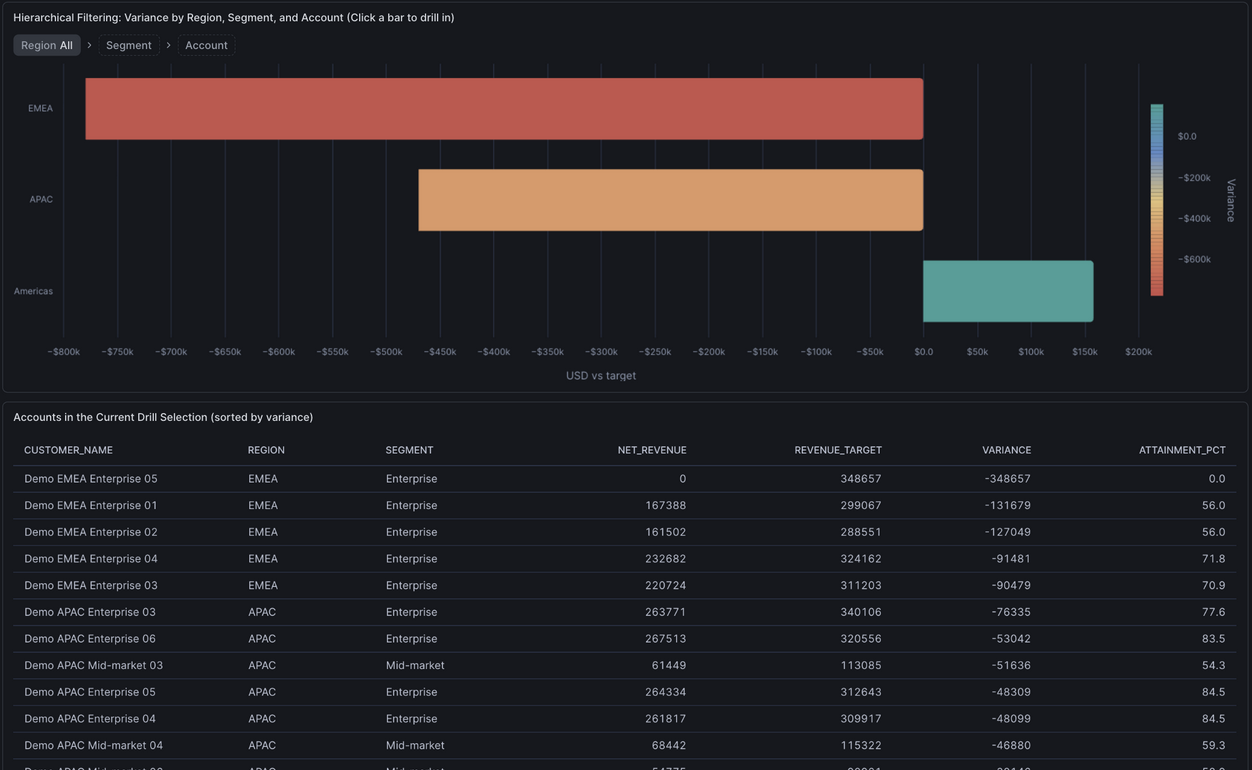
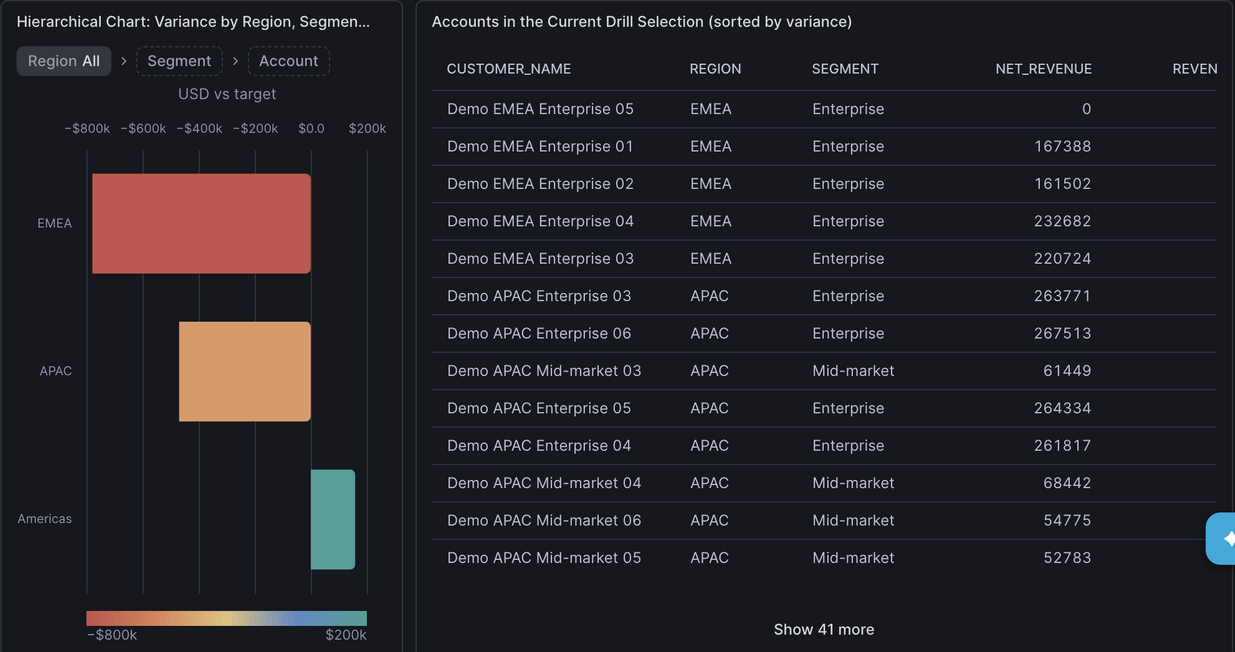
Sync Dashboards 2.0 guide with the four-tab Revenue Pulse example
Describe the Overview, Hierarchical Chart, Hierarchical Table, and Data Source tabs, add the hierarchy table step, mention revenue_pulse_extended.dash, and recapture screenshots from the current dashboard.

diff --git a/quickstart/getting-started-with-snowflake-dashboards-2-0/getting-started-with-snowflake-dashboards-2-0.md b/quickstart/getting-started-with-snowflake-dashboards-2-0/getting-started-with-snowflake-dashboards-2-0.md
@@ -44,9 +44,9 @@ A morning revenue check fits that last description, so this guide uses a dashboa
 - How to ask follow-up questions about a dashboard in CoWork, and keep recorded drivers separate from hypotheses
 
 ### What You'll Build
-You'll build Revenue Pulse, a three-tab revenue dashboard that takes you from the Q3 2026 headline numbers down to the regions, segments, and accounts behind the $1.09M gap. It combines KPI sparklines, a monthly trend, regional bars, a heatmap, and a variance waterfall, plus a driver donut and an account attainment bubble chart. The core charts sit on an **Overview** tab, a drillable chart and its account table on a **Hierarchical Chart** tab, and data lineage on a **Data Source** tab. Brush the trend or click a region bar, and the related charts would filter to match.
+You'll build Revenue Pulse, a four-tab revenue dashboard that takes you from the Q3 2026 headline numbers down to the regions, segments, and accounts behind the $1.09M gap. It combines KPI sparklines, a monthly trend, regional bars, a heatmap, and a variance waterfall, plus a driver donut and an account attainment bubble chart. The core charts sit on an **Overview** tab. A drillable bar chart with its account table sits on a **Hierarchical Chart** tab, and an expandable region-segment-customer table on a **Hierarchical Table** tab. The **Data Source** tab holds the data lineage and sample questions for CoWork. Brush the trend or click a region bar, and the related charts filter to match.
 
-![Overview tab of the completed Revenue Pulse dashboard, from summary cards through the driver donut and account bubble charts, with Hierarchical Chart and Data Source tabs alongside](assets/dashboard-complete.png)
+![Overview tab of the completed Revenue Pulse dashboard, from the header and summary cards through the driver donut and account bubble charts, with Hierarchical Chart, Hierarchical Table, and Data Source tabs alongside](assets/dashboard-complete.png)
 
 The architecture below shows how the dashboard and Revenue Advisor use the shared semantic view, and how viewers explore the published artifact in CoWork.
 
@@ -66,7 +66,7 @@ Everything in this guide runs in Snowsight. You don't need Python, a CLI, or a l
 
 Run the supplied setup scripts, then send one authoring prompt at a time in the same Snowsight CoCo conversation. Review each change and complete its **Check** before continuing.
 
-The companion's `dashboards/revenue_pulse.dash` is the completed example used for this guide's screenshots and expected figures. Create your dashboard as `dashboards/revenue_pulse_draft.dash` so you can compare the two without overwriting the example. Generated layouts and wording can differ. If you prefer to explore the completed example first, open it and jump to **Explore with Filters**.
+The companion's `dashboards/revenue_pulse.dash` is the completed example used for this guide's screenshots and expected figures. `dashboards/revenue_pulse_extended.dash` is a longer variant of the same dashboard: it moves the trend and detail charts to a **Chart Actions** tab and adds a how-to tile beside each chart. Create your dashboard as `dashboards/revenue_pulse_draft.dash` so you can compare the two without overwriting the example. Generated layouts and wording can differ. If you prefer to explore the completed example first, open it and jump to **Explore with Filters**.
 
 The `/dashboard` skill was confirmed to load in Snowsight during a read-only check. The incremental authoring prompts below are suggested instructions, not a transcript of a completed end-to-end generation run. Validate the result in your account; a successful file check alone does not establish that its SQL or interactions are correct. Advanced chart actions depend on your account's enabled features.
 
@@ -495,9 +495,9 @@ Use supported native scorecards and validate the file.
 
 **Check:** Default Q3 revenue remains about $6.9M, with a 0.8% year-over-year increase. The sparklines end in September 2026 and contain 12 months, while the main cards still describe the quarter. Inspect the prior-year dates if the comparisons look wrong.
 
-The completed example below shows the four KPI sparklines and the dashboard header. It also includes the Chart Actions instructions added later in the walkthrough; your dashboard does not need to match its layout exactly.
+The completed example below shows the four KPI sparklines under the dashboard header, with the trend below them. Your dashboard does not need to match its layout exactly.
 
-![Completed Revenue Pulse example with four KPI sparklines and a Chart Actions tile](assets/dashboard-overview.png)
+![Completed Revenue Pulse example with the header, four KPI sparklines, and the start of the monthly trend](assets/dashboard-overview.png)
 
 ### 10. Add Detail Charts
 
@@ -627,55 +627,78 @@ The region bar changes its detail level through the Region and Segment dropdowns
 Add a native hierarchy named geo with three levels: Region, then
 Segment within region, then Account (key CUSTOMER_ID, shown as
 CUSTOMER_NAME). Add a horizontal bar chart titled Hierarchical
-Filtering: Variance by Region, Segment, and Account, on its own
+Chart: Variance by Region, Segment, and Account, on its own
 scope under the main scope, so the header filters and other chart
 actions still apply. Clicking a bar should drill one level down,
 and its level trail should drill back up. Hierarchy datasources
 can't use the semantic view, so join REVENUE_MONTHLY, CUSTOMERS,
 and PRODUCTS and reuse the semantic view's net revenue and target
-formulas. Put it on a new tab named Hierarchical Chart. Right
-under the chart, add a table in the same scope that lists the
+formulas. Put it on a new tab named Hierarchical Chart. Beside
+the chart, add a table in the same scope that lists the
 accounts inside whatever bar the viewer drilled into: bind it to
 the geo hierarchy with hierarchy_rows but not hierarchy_key, so it
 always groups by account. Keep the existing chart actions and
 validate the file.
 ```
 
-**Expected output:** A `hierarchies` entry with three levels, two datasources bound to it, a drillable bar chart with drill-down and drill-up actions, and an account table below it in the same scope. The existing chart actions are unchanged.
+**Expected output:** A `hierarchies` entry with three levels, two datasources bound to it, a drillable bar chart with drill-down and drill-up actions, and an account table beside it in the same scope. The existing chart actions are unchanged.
 
 The table's query uses `{{ hierarchy_rows('geo') }}` to keep only the rows under the drilled member and groups by account itself. Because it shares the chart's scope, every drill click re-runs it.
 
-**Check:** Click EMEA, then Enterprise. The bars should go from three regions to EMEA's segments (Enterprise about −$778.7K) to six EMEA Enterprise accounts. The table below should follow: all accounts, then EMEA's 18, then the same six. Use the level trail to go back to **Region All**. Then set Region = APAC in the header: the chart should drill from APAC only.
+**Check:** Click EMEA, then Enterprise. The bars should go from three regions to EMEA's segments (Enterprise about −$778.7K) to six EMEA Enterprise accounts. The table beside it should follow: all accounts, then EMEA's 18, then the same six. Use the level trail to go back to **Region All**. Then set Region = APAC in the header: the chart should drill from APAC only.
 
-![Hierarchical Chart chart at the Region level: EMEA and APAC bars below target, Americas above, with the level trail reading Region All, and the account table below listing all regions' accounts](assets/hierarchy-drill-region.png)
+![Hierarchical Chart chart at the Region level: EMEA and APAC bars below target, Americas above, with the level trail reading Region All, and the account table beside it listing all regions' accounts](assets/hierarchy-drill-region.png)
 
-![After clicking EMEA: Enterprise is about -$779K below target while SMB and Mid-market are near zero, and the table below now lists only EMEA accounts](assets/hierarchy-drill-segment.png)
+![After clicking EMEA: Enterprise is about -$779K below target while SMB and Mid-market are near zero, and the table beside it now lists only EMEA accounts](assets/hierarchy-drill-segment.png)
 
-![After clicking Enterprise: six EMEA Enterprise accounts, led by Demo EMEA Enterprise 05 at about -$349K, with the table below listing the same six accounts](assets/hierarchy-drill-account.png)
+![After clicking Enterprise: six EMEA Enterprise accounts, led by Demo EMEA Enterprise 05 at about -$349K, with the table beside it listing the same six accounts](assets/hierarchy-drill-account.png)
 
 A click on a bar can briefly show one long multicolored bar while the next level loads. This is the preview renderer redrawing the previous level; the chart settles when the data arrives.
 
-### 12. Explain the Controls
+#### Expand a Hierarchy Table
 
-Finish with a compact layout and a short guide for the reader. Explain only interactions that survived your checks.
+The same `geo` hierarchy can drive a table instead of a chart. Each row is a level member, and expanding a row reveals the level below it, so readers can compare regions, segments, and customers in one grid.
 
 **Prompt:**
 
 ```text
-Arrange the dashboard in three tabs. On Overview: header and a
-short Try Chart Actions text tile at the top, four KPI cards below,
-then trend and regional views, followed by driver views. Put the
-hierarchy chart and its account table on a Hierarchical Chart tab and the
-source note alone on a Data Source tab, with each field on its own line.
-In the text tile, describe only the actions we verified and how to
-clear their selections. If no chart actions are supported, title it
-Try Dashboard Filters instead and explain the filter chips.
-Keep labels readable and chart colours consistent. Preserve all
-SQL, filter bindings, and tile IDs while adjusting layout.
-Validate the file; do not publish or change sharing.
+Add a table titled Variance by Region, Segment, and Customer
+on a new tab named Hierarchical Table. Bind it to the geo hierarchy
+with hierarchy_key and hierarchy_rows so each row can be expanded
+from region to segment to customer. Show net revenue, target,
+signed variance in USD, and attainment percent for each row.
+Reuse the hierarchy chart's base query and apply all dashboard
+filters. Keep the existing tiles unchanged and validate the file.
 ```
 
-**Expected output:** Three tabs (Overview, Hierarchical Chart, and Data Source), with Overview ordered from summary to detail, with concise instructions for verified controls and reset actions. Existing SQL, bindings, and tile IDs remain intact.
+**Expected output:** An expandable table on its own tab with one row per region, and segments and customers revealed on expand. Existing tiles are unchanged.
+
+**Check:** With Q3 and no other filters, EMEA shows about $1.83M net revenue against a $2.61M target (−$779.1K, 70.1%). Expand EMEA, then Enterprise, and the six EMEA Enterprise accounts should appear with the same variances as the hierarchy chart.
+
+![Completed reference hierarchy table at the region level: EMEA at 70.1% attainment, APAC at 83%, and Americas at 106.1%, each row expandable to segments and customers](assets/hierarchy-table.png)
+
+### 12. Explain the Controls
+
+Finish with a compact layout and short hints for the reader. Explain only interactions that survived your checks. If you prefer step-by-step help tiles beside each chart, compare your result with `dashboards/revenue_pulse_extended.dash`.
+
+**Prompt:**
+
+```text
+Arrange the dashboard in four tabs. On Overview: the header at the
+top, four KPI cards below, then the trend, regional views, and
+driver views. Put the hierarchy chart with its account table beside
+it on a Hierarchical Chart tab, and the hierarchy table on a
+Hierarchical Table tab. On a Data Source tab, put the source note,
+with each field on its own line, and beside it an Ask Revenue
+Advisor text tile with sample CoWork follow-up questions.
+Put a short action hint in each interactive chart's title, such as
+(Click a region to filter the other charts), and describe only
+actions we verified. Keep labels readable and chart colours
+consistent. Preserve all SQL, filter bindings, and tile IDs while
+adjusting layout. Validate the file; do not publish or change sharing.
+```
+
+**Expected output:** Four tabs (Overview, Hierarchical Chart, Hierarchical Table, and Data Source), with Overview ordered from summary to detail and short action hints in chart titles. Existing SQL, bindings, and tile IDs remain intact.
 
 **Check:** Read the dashboard at your normal browser size. Labels should fit, legends should explain units and colours, and the instructions should match the controls that actually work. [Tabs](https://docs.snowflake.com/en/LIMITEDACCESS/cowork-dashboards#tabs) share one set of filters, so switch to **Hierarchical Chart** with Region = EMEA set and the account table should show only EMEA accounts. Only the open tab's tiles run their queries.
 
@@ -752,7 +775,7 @@ The waterfall in step 8 reconciles recorded drivers to the **−$1.09M** total v
 
 Set **Region = EMEA**. Revenue becomes approximately $1.8M, attainment 70.1%, variance −$779.1K, and gross margin 71.3%. The regional chart now shows segment bars, while the trend retains its 24-month history.
 
-![Updated Revenue Pulse dashboard filtered to EMEA with KPI sparklines and Chart Actions instructions](assets/filter-region-emea.png)
+![Revenue Pulse Overview filtered to EMEA: $1.8M net revenue, 70.1% attainment, a variance of about −$779K, and 71.3% gross margin](assets/filter-region-emea.png)
 
 ### Focus on Enterprise Accounts
 
@@ -774,7 +797,8 @@ Test each action you added in step 11; for any your account doesn't support, the
 1. **Brush months:** Drag a range on the trend, then clear **Months picked on trend** to restore Period and the full history.
 2. **Select a region bar:** Other tiles filter to that region; the source bars remain visible. Clear **Drill: region path** to reset. Use the Region and Segment dropdowns, rather than bar clicks, to change the source chart's detail level.
 3. **Select a heatmap cell:** Other tiles filter to its region and segment; the source grid stays unchanged. Clear the resulting selections before another test.
-4. **Drill the hierarchy:** On the **Hierarchical Chart** tab, click EMEA, then Enterprise, to reach its six accounts; the largest miss is Demo EMEA Enterprise 05 at −$348.7K. The table under the chart lists the same accounts. Use the level trail to return to **Region All**.
+4. **Drill the hierarchy:** On the **Hierarchical Chart** tab, click EMEA, then Enterprise, to reach its six accounts; the largest miss is Demo EMEA Enterprise 05 at −$348.7K. The table beside the chart lists the same accounts. Use the level trail to return to **Region All**.
+5. **Expand the hierarchy table:** On the **Hierarchical Table** tab, expand EMEA, then Enterprise, to see the same six accounts in one grid with net revenue, target, variance, and attainment.
 
 Restore Q3 and clear all other selections before publishing.
 
